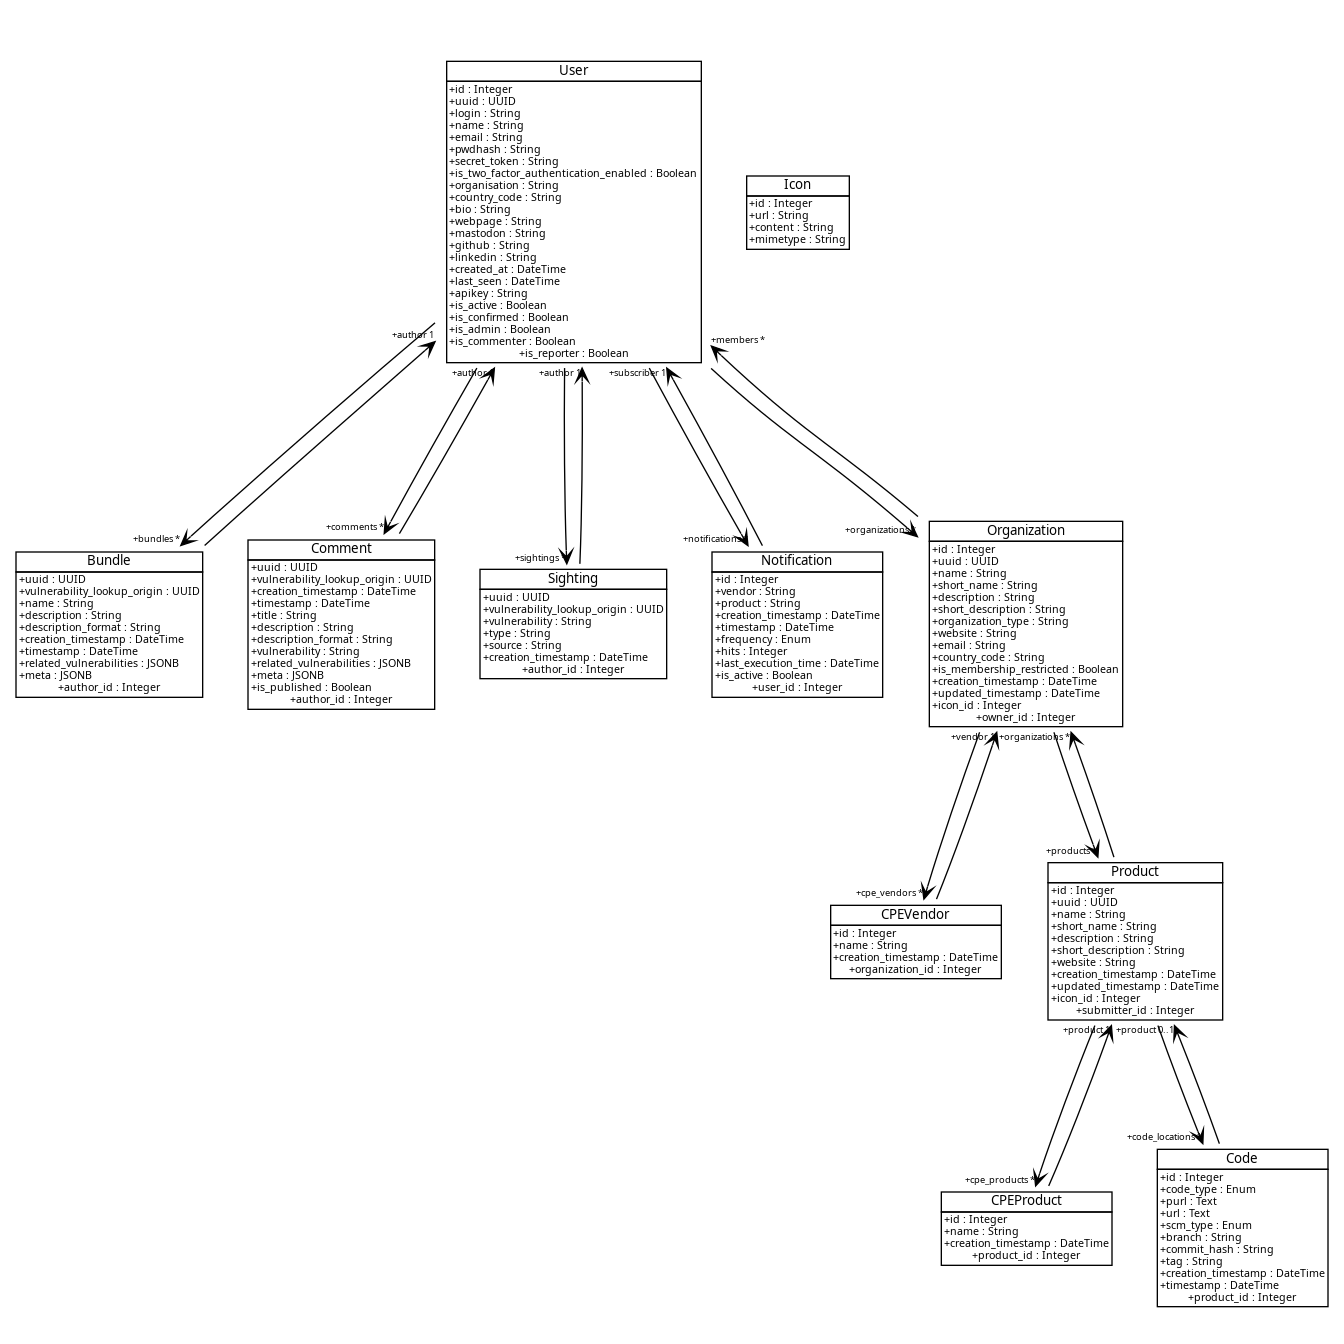
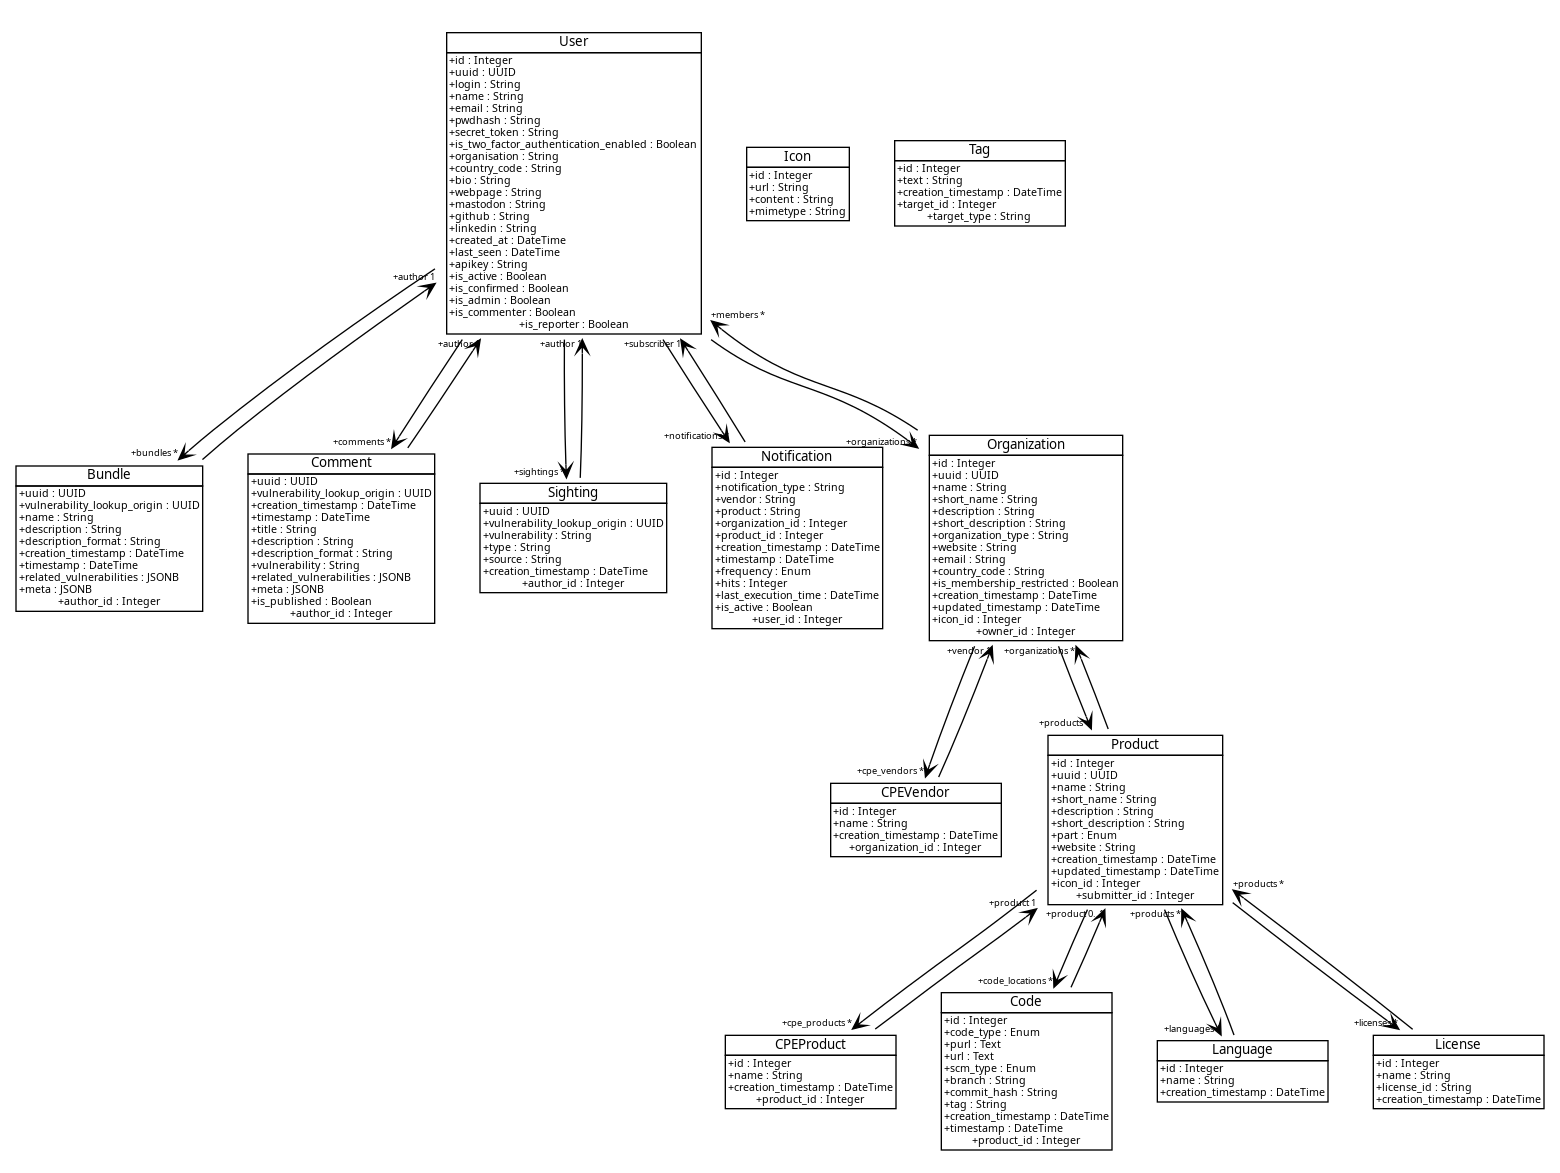
chg: Updated dependencies, documentation, CHANGELOG and improved some endpoints (used to export CPE information).

diff --git a/website/web/templates/organizations/organization.html b/website/web/templates/organizations/organization.html
@@ -35,7 +35,7 @@
           <p>{{ organization.organization_type }}</p>
         </div>
         <div>
-          <a href="{{ url_for('organization_bp.export_json', organization_id=organization.id) }}">{{ render_icon('download', title='Export CPE information') }}</a>
+          <a href="{{ url_for('organization_bp.export_cpe_information', organization_uuid=organization.uuid) }}">{{ render_icon('download', title='Export CPE information') }}</a>
         </div>
 
       </div>
@@ -60,8 +60,8 @@
           <p class="card-text text-justify flex-grow-1">{{ product.description }}</p>
         </div>
         <div class="card-body">
-          <a href="{{ url_for('product_bp.export_json', product_id=product.id) }}" class="card-link">{{ render_icon('download', title='Export CPE information') }}</a>
           <a href="{{ url_for('product_bp.get', product_uuid=product.uuid) }}" class="card-link">More</a>
+          <a href="{{ url_for('product_bp.export_cpe_information', product_uuid=product.uuid) }}" class="card-link">{{ render_icon('download', title='Export CPE information') }}</a>
         </div>
       </div>
     </div>

diff --git a/website/web/templates/organizations/organizations.html b/website/web/templates/organizations/organizations.html
@@ -27,7 +27,7 @@
               <strong><a class="text-white" href="{{ url_for('organization_bp.get', organization_uuid=organization.uuid) }}">{{ organization.name }}</a></strong>
             </li>
             <li class="mb-0">
-              <a href="{{ url_for('organization_bp.export_json', organization_id=organization.id) }}" class="text-white" style="text-decoration: none;">
+              <a href="{{ url_for('organization_bp.export_cpe_information', organization_uuid=organization.uuid) }}" class="text-white" style="text-decoration: none;">
                 {{ render_icon('download', title='Export CPE information', color='white') }}
               </a>
             </li>
@@ -43,7 +43,7 @@
                   <p class="card-text text-justify flex-grow-1">{{ product.description }}</p>
                   <div class="mt-auto d-flex justify-content-between align-items-center">
                     <a href="{{ url_for('product_bp.get', product_uuid=product.uuid) }}" class="card-link">More</a>
-                    <a href="{{ url_for('product_bp.export_json', product_id=product.id) }}" class="card-link">{{ render_icon('download', title='Export CPE information') }}</a>
+                    <a href="{{ url_for('product_bp.export_cpe_information', product_uuid=product.uuid) }}" class="card-link">{{ render_icon('download', title='Export CPE information') }}</a>
                   </div>
                 </div>
               </div>

diff --git a/website/web/templates/admin/organizations.html b/website/web/templates/admin/organizations.html
@@ -36,7 +36,7 @@
       <td><a href="{{ url_for('admin_products_bp.list_products', query=organization.name) }}">{{ organization.products | count }}</a></td>
       <td>{{ organization.creation_timestamp | datetimeformat('%Y-%m-%d %H:%M:%S %z') }}</td>
       <td>
-        <a class="icon-link" href="{{ url_for('admin_organization_bp.export_json', organization_id=organization.id) }}">{{ render_icon('download', title='Export CPE information') }}</a>
+        <a class="icon-link" href="{{ url_for('admin_organization_bp.export_cpe_information', organization_uuid=organization.uuid) }}">{{ render_icon('download', title='Export CPE information') }}</a>
         <a class="icon-link" href="{{ url_for('admin_organization_bp.form_organization', organization_id=organization.id) }}">{{ render_icon('pen', title='Edit the organization') }}</a>
         <a class="icon-link" href="{{ url_for('admin_organization_bp.form_organization_cpe_vendor', organization_id=organization.id) }}">{{ render_icon('tag', title='Manage CPE vendor names') }}</a>
         <a class="icon-link" href="{{ url_for('admin_organization_bp.delete_organization', organization_id=organization.id) }}" onclick="return confirm('You are going to delete this organization.');">{{ render_icon('trash', color='red') }}</a>

diff --git a/website/web/templates/admin/products.html b/website/web/templates/admin/products.html
@@ -40,7 +40,7 @@
       <td>{{ product.get_cpe_products() | count }}</td>
       <td>{{ product.creation_timestamp | datetimeformat('%Y-%m-%d %H:%M:%S %z') }}</td>
       <td>
-        <a class="icon-link" href="{{ url_for('admin_product_bp.export_json', product_id=product.id) }}">{{ render_icon('download', title='Export CPE information') }}</a>
+        <a class="icon-link" href="{{ url_for('admin_product_bp.export_cpe_information', product_uuid=product.uuid) }}">{{ render_icon('download', title='Export CPE information') }}</a>
         <a class="icon-link" href="{{ url_for('admin_product_bp.form_product', product_id=product.id) }}">{{ render_icon('pen', title='Edit the product') }}</a>
         <a class="icon-link" href="{{ url_for('admin_product_bp.form_product_cpe_product', product_id=product.id) }}">{{ render_icon('tag', title='Manage CPE product names') }}</a>
         <a class="icon-link" href="{{ url_for('admin_product_bp.delete_product', product_id=product.id) }}" onclick="return confirm('You are going to delete this product.');">{{ render_icon('trash', color='red') }}</a>

diff --git a/website/web/views/admin/organization.py b/website/web/views/admin/organization.py
@@ -342,14 +342,14 @@ def delete_cpe_vendor(
 
 
 @admin_organization_bp.route(
-    "/<int:organization_id>/export_json",
+    "/<uuid:organization_uuid>/export_cpe_information",
     methods=["GET"],
 )
 @login_required  # type: ignore[misc]
 @admin_permission.require(http_exception=403)  # type: ignore[misc]
-def export_json(organization_id: int) -> WerkzeugResponse:
+def export_cpe_information(organization_uuid: str) -> WerkzeugResponse:
     """Export CPE information for the organization."""
-    organization = Organization.query.filter(Organization.id == organization_id).first()
+    organization = Organization.query.filter(Organization.uuid == organization_uuid).first()
     if organization is None:
         abort(404)
 

diff --git a/website/web/views/admin/product.py b/website/web/views/admin/product.py
@@ -362,14 +362,14 @@ def delete_cpe_product(product_id: int, cpe_product_name_id: int) -> WerkzeugRes
 
 
 @admin_product_bp.route(
-    "/<int:product_id>/export_json",
+    "/<uuid:product_uuid>/export_cpe_information",
     methods=["GET"],
 )
 @login_required  # type: ignore[misc]
 @admin_permission.require(http_exception=403)  # type: ignore[misc]
-def export_json(product_id: int) -> WerkzeugResponse:
+def export_cpe_information(product_uuid: str) -> WerkzeugResponse:
     """Export CPE information for the product."""
-    product = Product.query.filter(Product.id == product_id).first()
+    product = Product.query.filter(Product.uuid == product_uuid).first()
     if product is None:
         abort(404)
 

diff --git a/website/web/views/organization.py b/website/web/views/organization.py
@@ -86,11 +86,11 @@ def get(organization_uuid: str) -> str:
 
 
 @organization_bp.route(
-    "/<int:organization_id>/export_json",
+    "/<uuid:organization_uuid>/export_cpe_information",
     methods=["GET"],
 )
-def export_json(organization_id: int) -> WerkzeugResponse:
-    organization = Organization.query.filter(Organization.id == organization_id).first()
+def export_cpe_information(organization_uuid: str) -> WerkzeugResponse:
+    organization = Organization.query.filter(Organization.uuid == organization_uuid).first()
     if organization is None:
         abort(404)
 

diff --git a/website/web/views/product.py b/website/web/views/product.py
@@ -53,12 +53,12 @@ def get(product_uuid: str) -> str:
 
 
 @product_bp.route(
-    "/<int:product_id>/export_json",
+    "/<uuid:product_uuid>/export_cpe_information",
     methods=["GET"],
 )
-def export_json(product_id: int) -> WerkzeugResponse:
+def export_cpe_information(product_uuid: str) -> WerkzeugResponse:
     """Export CPE information for the product."""
-    product = Product.query.filter(Product.id == product_id).first()
+    product = Product.query.filter(Product.uuid == product_uuid).first()
     if product is None:
         abort(404)
 

diff --git a/website/web/commands.py b/website/web/commands.py
@@ -203,8 +203,8 @@ def clean_sightings(source: str) -> None:
     help="Import languages from a JSON file.",
 )
 def import_languages(json_file: str) -> None:
-    "Import languages from a JSON file"
-    print(f"Importing languages from {json_file}…")
+    "Import programming languages from a JSON file"
+    print(f"Importing programming languages from {json_file}…")
     website.scripts.import_languages(json_file)
 
 

diff --git a/website/scripts/import_languages.py b/website/scripts/import_languages.py
@@ -8,7 +8,7 @@ from website.models import Language
 
 
 def import_languages(file_path: str) -> None:
-    """Imports a list of languages from a JSON file."""
+    """Imports a list of programming languages from a JSON file."""
     with open(Path(file_path)) as json_file:
         languages = json.loads(json_file.read())
         for language in languages:

diff --git a/CHANGELOG.md b/CHANGELOG.md
@@ -1,6 +1,48 @@
 Vulnerability-Lookup Changelog
 ==============================
 
+## 2.7.0 (not-yet-released)
+
+### What's New
+
+- **Vendor and Product Management in Vulnerability-Lookup**:
+  Added support for extending or aliasing CPE names, allowing vendor and product names to be mapped.
+  This addresses the issue of CPE fragmentation or inconsistency, where an organization might have multiple vendor names,
+  or a single product is referenced by different CPE identifiers (e.g., `"cpe:/a:oracle:java"` vs. `"cpe:/a:sun:java"` for the same product).
+
+  The solution introduces organizations as unified containers, consolidating known CPE vendor names under a single entity.
+  Related products are linked to this entity. Additionally, a curated list of CPE product name
+  synonyms helps resolve naming discrepancies.
+
+  A point of contact (email/URL) can be added to an organization.
+  [#110](https://github.com/vulnerability-lookup/vulnerability-lookup/pull/110)
+
+- **Organization Membership**:
+  Users can now be part of one or multiple organizations in Vulnerability-Lookup.
+  [#110](https://github.com/vulnerability-lookup/vulnerability-lookup/pull/110)
+
+- **API Enhancements**:
+  Introduced a new endpoint to retrieve information about organizations and products.
+  It is as well possible to get all CPE information related to a product or an organization, as a JSON file.
+  (``/organization/<uuid>/export_cpe_information`` and ``/product/<uuid>/export_cpe_information``)
+  [#110](https://github.com/vulnerability-lookup/vulnerability-lookup/pull/110)
+
+
+### Changes
+
+- Users can now create notifications based on Organization/Product or Vendor/Product.
+  Notifications linked to an Organization and a Product will leverage the new CPE vendor/product aliasing mechanism.
+  [#110](https://github.com/vulnerability-lookup/vulnerability-lookup/pull/110)
+- Improved validations of models and forms.
+  ([0be8544](https://github.com/vulnerability-lookup/vulnerability-lookup/commit/0be8544d899ec77596c1af4407025c670aa668e4))
+- Various graphical improvements to the user's notifications page and main menu.
+
+### Fixes
+
+- Do not load the reusable modals with the Vulnogram editor.
+  [84a5273](https://github.com/vulnerability-lookup/vulnerability-lookup/commit/84a5273809dac3a2590733d38efb4a332be52919)
+
+
 ## 2.6.0 (2025-02-14)
 
 ### What's New

diff --git a/docs/architecture.rst b/docs/architecture.rst
@@ -24,6 +24,16 @@ This allows for seamless integration with services like:
 It is also possible to activate an authenticated HTTP event-stream subscribe service.
 
 
+PostgreSQL database
+-------------------
+
+.. figure:: _static/img/model_diagram.png
+   :alt: Database models diagram
+   :target: _static/img/model_diagram.png
+
+   Database models diagram
+
+
 Interface
 ---------
 